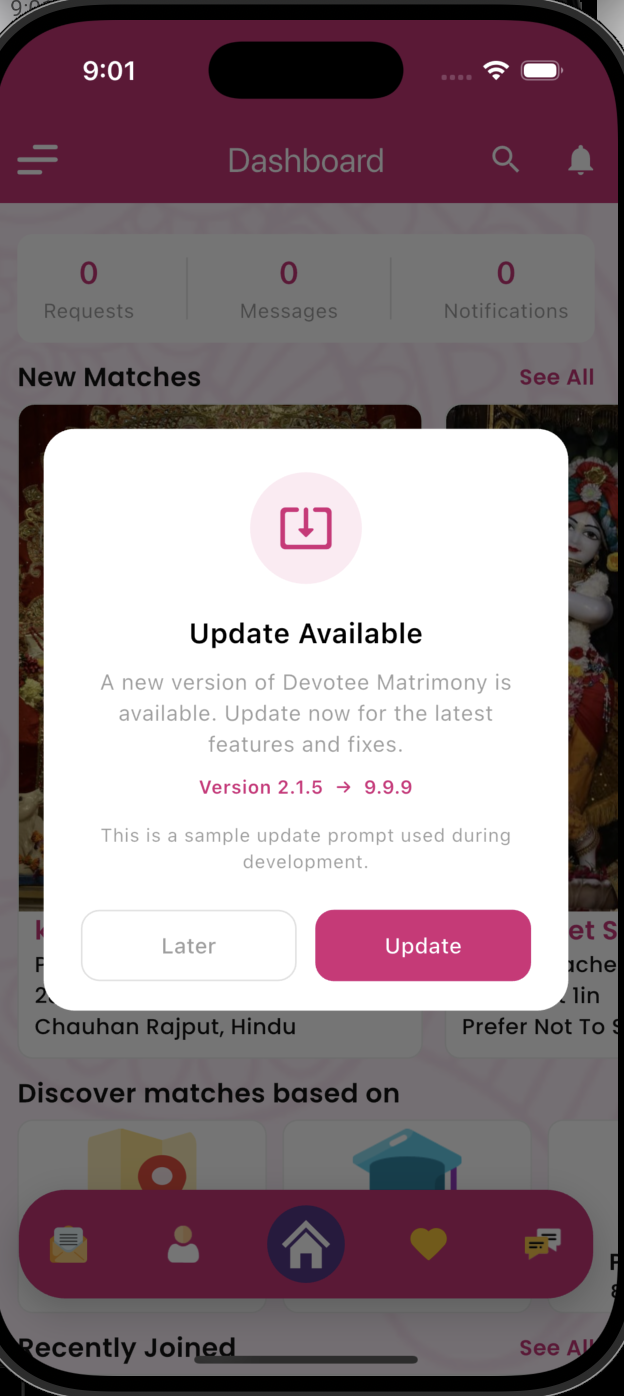
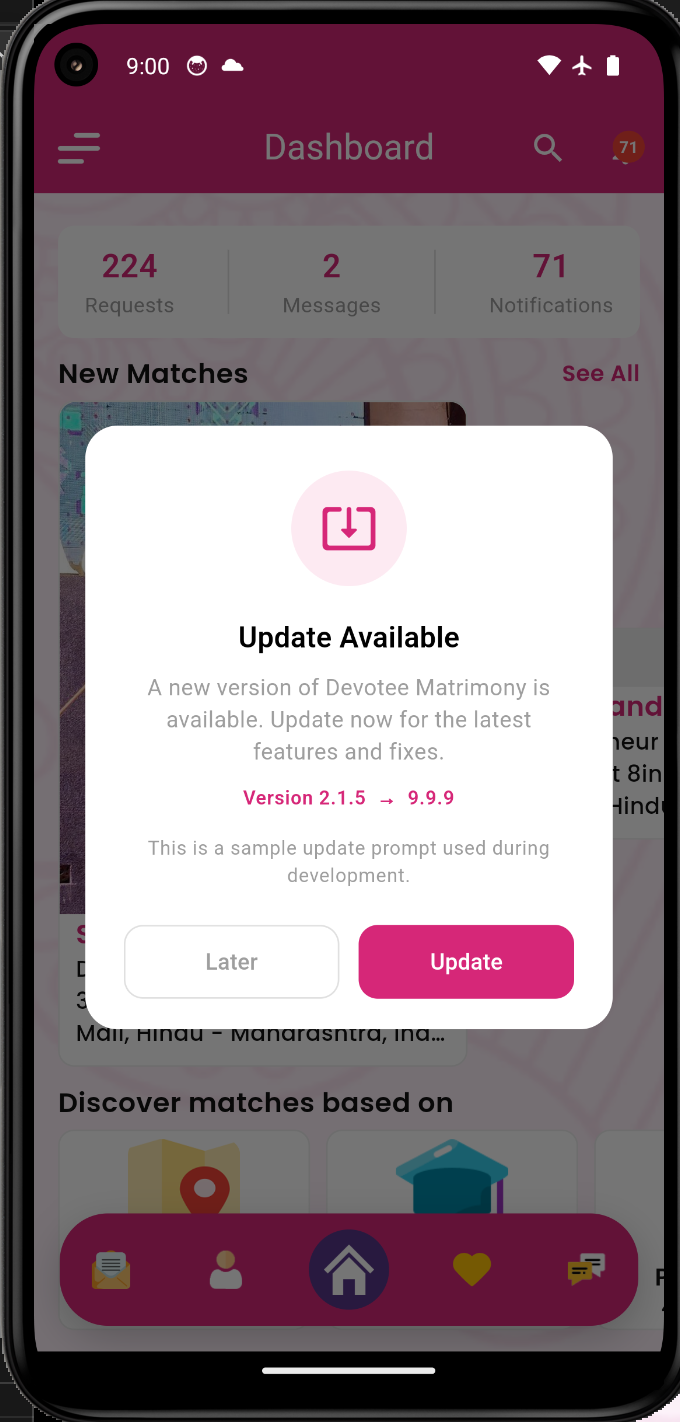
Portfolio update

diff --git a/data.js b/data.js
@@ -1,5 +1,5 @@
 /* ===========================================================================
-   PORTFOLIO CONTENT — generated by admin.html on 8/12/2026, 9:25:46 PM
+   PORTFOLIO CONTENT — generated by admin.html on 8/12/2026, 9:34:12 PM
    Edit through the console rather than by hand where you can.
    =========================================================================== */
 window.PORTFOLIO_DATA = {
